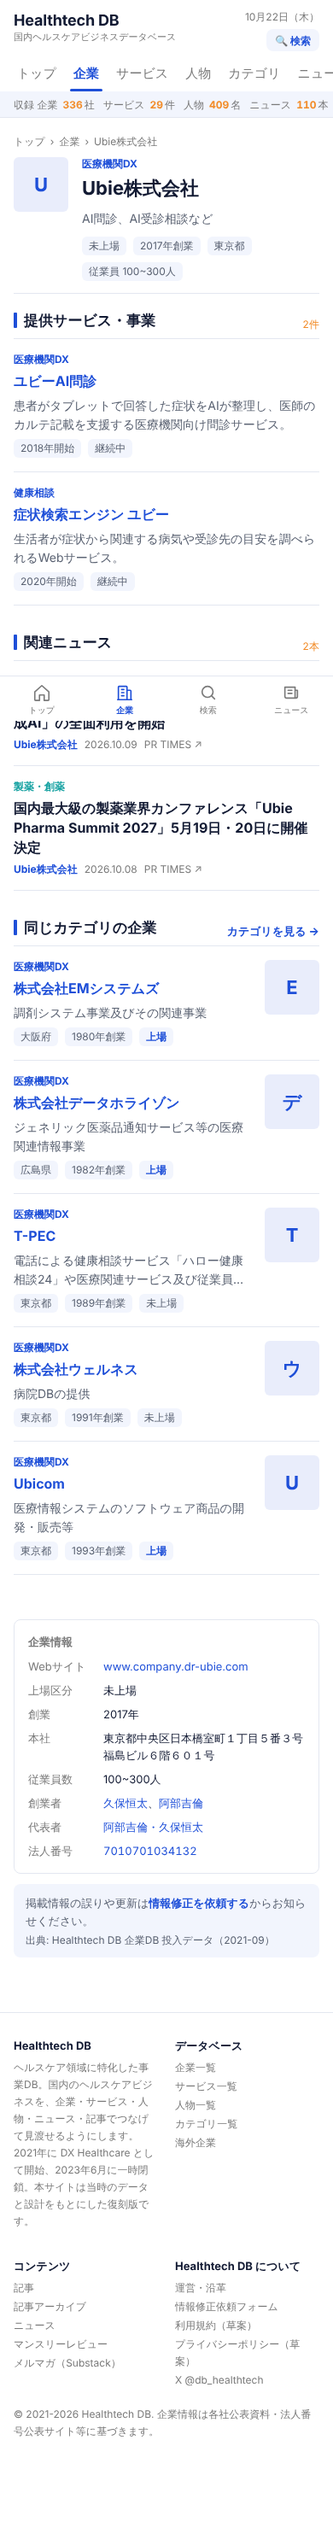
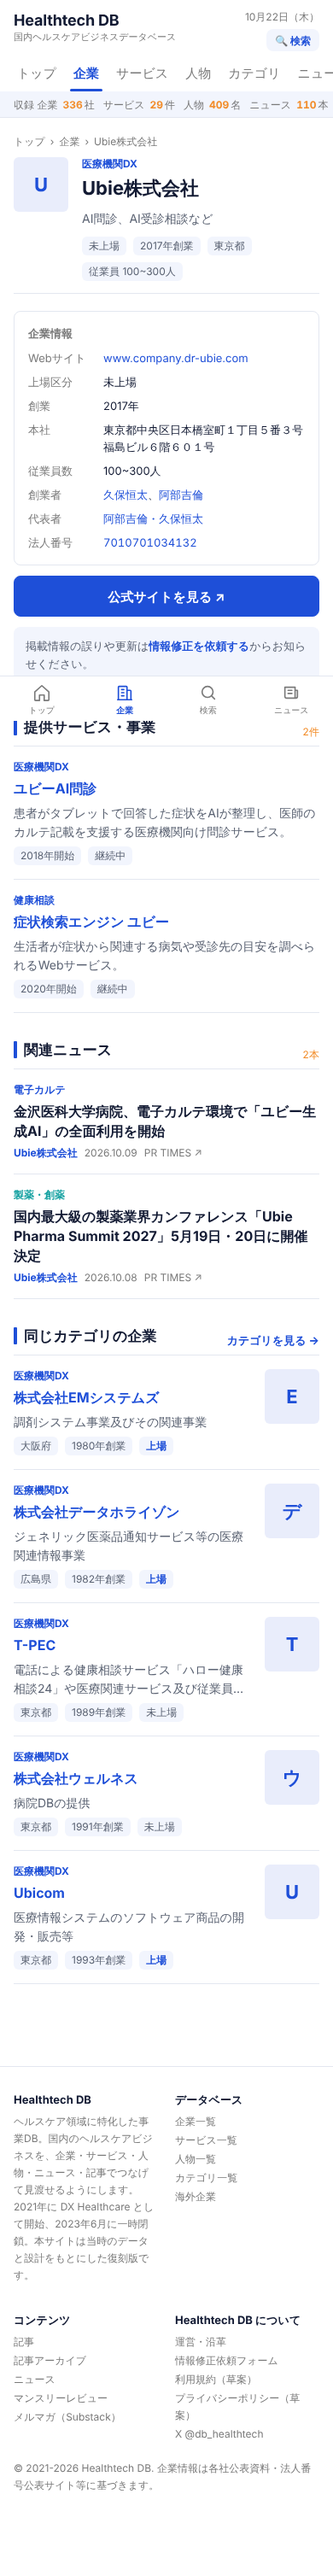
姉妹アプリのデザイン仕様を反映: 720px 1カラム、縦棒 4×20、公式サイトボタン
Claude-Session: https://claude.ai/code/session_0119Ai9hj5RXsdgrEx7y6FYW

diff --git a/src/app/companies/[id]/page.tsx b/src/app/companies/[id]/page.tsx
@@ -53,6 +53,28 @@ export default async function CompanyPage({ params }: { params: Promise<{ id: st
       </div>
 
       <div className="two-col" style={{ marginTop: 20 }}>
+        <div style={{ display: 'grid', gap: 12 }}>
+          <section className="side-box">
+            <h3>企業情報</h3>
+            <dl className="kv">
+              {c.hp && (<><dt>Webサイト</dt><dd><a href={c.hp} target="_blank" rel="noreferrer">{c.hp.replace(/^https?:\/\//, '').replace(/\/$/, '')}</a></dd></>)}
+              <dt>上場区分</dt><dd>{c.exit}</dd>
+              {c.foundedYear && (<><dt>創業</dt><dd>{c.foundedYear}年</dd></>)}
+              {c.address && (<><dt>本社</dt><dd>{c.address}</dd></>)}
+              {c.employees && (<><dt>従業員数</dt><dd>{c.employees}人</dd></>)}
+              {c.founders.length > 0 && (<><dt>創業者</dt><dd>{c.founders.map(personLink)}</dd></>)}
+              {c.representatives.length > 0 && (<><dt>代表者</dt><dd>{c.representatives.map(personLink)}</dd></>)}
+              {c.parentCompany && (<><dt>親会社</dt><dd>{parent ? <Link href={`/companies/${parent.id}/`}>{c.parentCompany}</Link> : c.parentCompany}</dd></>)}
+              {c.relatedCompanies.length > 0 && (<><dt>関連会社</dt><dd>{c.relatedCompanies.map((n, i) => { const r = findCompanyByName(n); return <span key={n}>{i > 0 && '、'}{r && r.id !== c.id ? <Link href={`/companies/${r.id}/`}>{n}</Link> : n}</span>; })}</dd></>)}
+              {c.corporateNumber && (<><dt>法人番号</dt><dd className="mono"><a href={c.corporateNumberUrl || `https://www.houjin-bangou.nta.go.jp/henkorireki-johoto.html?selHouzinNo=${c.corporateNumber}`} target="_blank" rel="noreferrer">{c.corporateNumber}</a></dd></>)}
+            </dl>
+          </section>
+          {c.hp && <a className="btn primary lg block" href={c.hp} target="_blank" rel="noreferrer">公式サイトを見る ↗</a>}
+          <p className="notice" style={{ margin: 0 }}>
+            掲載情報の誤りや更新は<a href={CORRECTION_FORM_URL} target="_blank" rel="noreferrer">情報修正を依頼する</a>からお知らせください。
+            <span className="small" style={{ display: 'block', marginTop: 4 }}>出典: {c.source}</span>
+          </p>
+        </div>
         <div>
           <section className="section">
             <SectionHead title="提供サービス・事業" count={`${services.length}件`} />
@@ -98,27 +120,6 @@ export default async function CompanyPage({ params }: { params: Promise<{ id: st
           )}
         </div>
 
-        <aside style={{ display: 'grid', gap: 12, position: 'sticky', top: 150 }}>
-          <section className="side-box">
-            <h3>企業情報</h3>
-            <dl className="kv">
-              {c.hp && (<><dt>Webサイト</dt><dd><a href={c.hp} target="_blank" rel="noreferrer">{c.hp.replace(/^https?:\/\//, '').replace(/\/$/, '')}</a></dd></>)}
-              <dt>上場区分</dt><dd>{c.exit}</dd>
-              {c.foundedYear && (<><dt>創業</dt><dd>{c.foundedYear}年</dd></>)}
-              {c.address && (<><dt>本社</dt><dd>{c.address}</dd></>)}
-              {c.employees && (<><dt>従業員数</dt><dd>{c.employees}人</dd></>)}
-              {c.founders.length > 0 && (<><dt>創業者</dt><dd>{c.founders.map(personLink)}</dd></>)}
-              {c.representatives.length > 0 && (<><dt>代表者</dt><dd>{c.representatives.map(personLink)}</dd></>)}
-              {c.parentCompany && (<><dt>親会社</dt><dd>{parent ? <Link href={`/companies/${parent.id}/`}>{c.parentCompany}</Link> : c.parentCompany}</dd></>)}
-              {c.relatedCompanies.length > 0 && (<><dt>関連会社</dt><dd>{c.relatedCompanies.map((n, i) => { const r = findCompanyByName(n); return <span key={n}>{i > 0 && '、'}{r && r.id !== c.id ? <Link href={`/companies/${r.id}/`}>{n}</Link> : n}</span>; })}</dd></>)}
-              {c.corporateNumber && (<><dt>法人番号</dt><dd className="mono"><a href={c.corporateNumberUrl || `https://www.houjin-bangou.nta.go.jp/henkorireki-johoto.html?selHouzinNo=${c.corporateNumber}`} target="_blank" rel="noreferrer">{c.corporateNumber}</a></dd></>)}
-            </dl>
-          </section>
-          <p className="notice" style={{ margin: 0 }}>
-            掲載情報の誤りや更新は<a href={CORRECTION_FORM_URL} target="_blank" rel="noreferrer">情報修正を依頼する</a>からお知らせください。
-            <span className="small" style={{ display: 'block', marginTop: 4 }}>出典: {c.source}</span>
-          </p>
-        </aside>
       </div>
     </>
   );

diff --git a/src/app/globals.css b/src/app/globals.css
@@ -83,7 +83,7 @@ main.container { padding-top: 20px; padding-bottom: 64px; }
 .section { margin: 0 0 32px; }
 .section-head { display: flex; align-items: baseline; justify-content: space-between; gap: 12px; margin-bottom: 4px; }
 .section-head h2 { display: flex; align-items: center; gap: 8px; }
-.section-head h2::before { content: ''; width: 4px; height: 18px; border-radius: 1px; background: var(--accent); flex: none; }
+.section-head h2::before { content: ''; width: 4px; height: 20px; border-radius: 1px; background: var(--accent); flex: none; }
 .section-head .count { font-size: 12px; color: var(--up); font-variant-numeric: tabular-nums; }
 .more { font-size: 13px; font-weight: 700; color: var(--accent); white-space: nowrap; }
 .page-head { padding-bottom: 14px; margin-bottom: 4px; border-bottom: 1px solid var(--line); }
@@ -91,8 +91,8 @@ main.container { padding-top: 20px; padding-bottom: 64px; }
 .page-head h1 { margin-top: 4px; }
 .page-head .lead { margin: 8px 0 0; color: var(--muted-2); font-size: 14px; line-height: 23px; }
 .breadcrumb { font-size: 12px; line-height: 16px; color: var(--muted); display: flex; flex-wrap: wrap; gap: 6px; margin-bottom: 10px; }
-.two-col { display: grid; grid-template-columns: minmax(0, 1fr) 300px; gap: 32px; align-items: start; }
-@media (max-width: 880px) { .two-col { grid-template-columns: 1fr; gap: 20px; } }
+/* ニュースアプリと同じく、PC でも 720px の1カラム */
+.two-col { display: flex; flex-direction: column; gap: 20px; }
 
 /* ---------- 分類ラベル（色付きの文字） ---------- */
 .label { display: inline-block; font-size: 12px; line-height: 16px; font-weight: 700; color: var(--accent); white-space: nowrap; }
@@ -130,7 +130,7 @@ main.container { padding-top: 20px; padding-bottom: 64px; }
 .feature .title { font-size: 19px; line-height: 27px; font-weight: 700; color: var(--fg); }
 .quote { border-left: 3px solid var(--accent); padding: 2px 0 2px 12px; display: flex; flex-direction: column; gap: 4px; }
 .quote .who { font-size: 12px; line-height: 16px; color: var(--muted); }
-.quote p { margin: 0; font-size: 15px; line-height: 26px; display: -webkit-box; -webkit-line-clamp: 2; -webkit-box-orient: vertical; overflow: hidden; }
+.quote p { margin: 0; font-size: 14px; line-height: 23px; display: -webkit-box; -webkit-line-clamp: 2; -webkit-box-orient: vertical; overflow: hidden; }
 
 /* ---------- 検索（医師ビジネスマッチングの Indeed 型） ---------- */
 .searchbar { display: flex; gap: 8px; flex-wrap: wrap; margin: 4px 0 20px; }
@@ -151,6 +151,7 @@ main.container { padding-top: 20px; padding-bottom: 64px; }
 .btn:hover { text-decoration: none; background: var(--surface); }
 .btn.primary { background: var(--accent); border-color: var(--accent); color: var(--accent-ink); }
 .btn.primary:hover { background: var(--accent-hover); border-color: var(--accent-hover); }
+.btn.block { width: 100%; }
 .btn.lg { min-height: 48px; padding: 0 24px; font-size: 15px; }
 .btn-row { display: flex; flex-wrap: wrap; gap: 8px; }
 .link-line { display: flex; align-items: center; gap: 8px; padding: 12px 0; border-bottom: 1px solid var(--line); font-size: 13px; font-weight: 700; color: var(--accent); }

diff --git a/src/app/services/[id]/page.tsx b/src/app/services/[id]/page.tsx
@@ -27,6 +27,19 @@ export default async function ServicePage({ params }: { params: Promise<{ id: st
         <p className="lead">{s.description}</p>
       </div>
       <div className="two-col" style={{ marginTop: 20 }}>
+        <div style={{ display: 'grid', gap: 12 }}>
+          <section className="side-box">
+            <h3>サービス情報</h3>
+            <dl className="kv">
+              <dt>提供企業</dt><dd>{company ? <Link href={`/companies/${company.id}/`}>{company.name}</Link> : s.company}</dd>
+              {s.hp && (<><dt>Webサイト</dt><dd><a href={s.hp} target="_blank" rel="noreferrer">{s.hp.replace(/^https?:\/\//, '').replace(/\/$/, '')}</a></dd></>)}
+              {s.startedYear && (<><dt>開始年</dt><dd>{s.startedYear}年</dd></>)}
+              <dt>状態</dt><dd>{s.status}</dd>
+            </dl>
+          </section>
+          {s.hp && <a className="btn primary lg block" href={s.hp} target="_blank" rel="noreferrer">サービスサイトを見る ↗</a>}
+          <p className="notice" style={{ margin: 0 }}>情報の修正は<a href={CORRECTION_FORM_URL} target="_blank" rel="noreferrer">情報修正依頼フォーム</a>から。</p>
+        </div>
         <section className="section">
           <SectionHead title="同じカテゴリのサービス" count={`${siblings.length}件`} />
           {siblings.length ? (
@@ -42,18 +55,6 @@ export default async function ServicePage({ params }: { params: Promise<{ id: st
             </div>
           ) : <p className="muted small">同じカテゴリのサービスはまだ登録されていません。</p>}
         </section>
-        <aside style={{ display: 'grid', gap: 12 }}>
-          <section className="side-box">
-            <h3>サービス情報</h3>
-            <dl className="kv">
-              <dt>提供企業</dt><dd>{company ? <Link href={`/companies/${company.id}/`}>{company.name}</Link> : s.company}</dd>
-              {s.hp && (<><dt>Webサイト</dt><dd><a href={s.hp} target="_blank" rel="noreferrer">{s.hp.replace(/^https?:\/\//, '').replace(/\/$/, '')}</a></dd></>)}
-              {s.startedYear && (<><dt>開始年</dt><dd>{s.startedYear}年</dd></>)}
-              <dt>状態</dt><dd>{s.status}</dd>
-            </dl>
-          </section>
-          <p className="notice" style={{ margin: 0 }}>情報の修正は<a href={CORRECTION_FORM_URL} target="_blank" rel="noreferrer">情報修正依頼フォーム</a>から。</p>
-        </aside>
       </div>
     </>
   );

diff --git a/src/app/layout.tsx b/src/app/layout.tsx
@@ -20,7 +20,7 @@ export default function RootLayout({ children }: { children: React.ReactNode }) 
     <html lang="ja">
       <body>
         <Header stats={stats} updated={news[0]?.publishedAt ?? ''} />
-        <main className="container">{children}</main>
+        <main className="container narrow">{children}</main>
         <Footer />
         <TabBar />
       </body>

diff --git a/DESIGN.md b/DESIGN.md
@@ -17,6 +17,9 @@
 6. **検索は Indeed 型。** ラベル付きの 1px 枠の入力欄＋青い塗りのボタン。
 7. **セクション見出しは青い縦棒 4px＋17px 700。** 右端の件数はオレンジ。
 8. **スマホは下部タブ。** トップ／企業／検索／ニュース。
+9. **PC でも本文は 720px の1カラム。** ヘッダーだけ広く、詳細ページも段組みしない（加藤さんは iPhone 中心）。
+10. **外部への導線は青い塗りの全幅ボタン。** 「公式サイトを見る ↗」（HealthBiz News の「原文を読む ↗」と同じ形）。
+11. **オレンジは数字と小さな強調だけ。** 本数・件数、メルマガ導線の前の点。赤は使わない。
 
 ## 色
 
